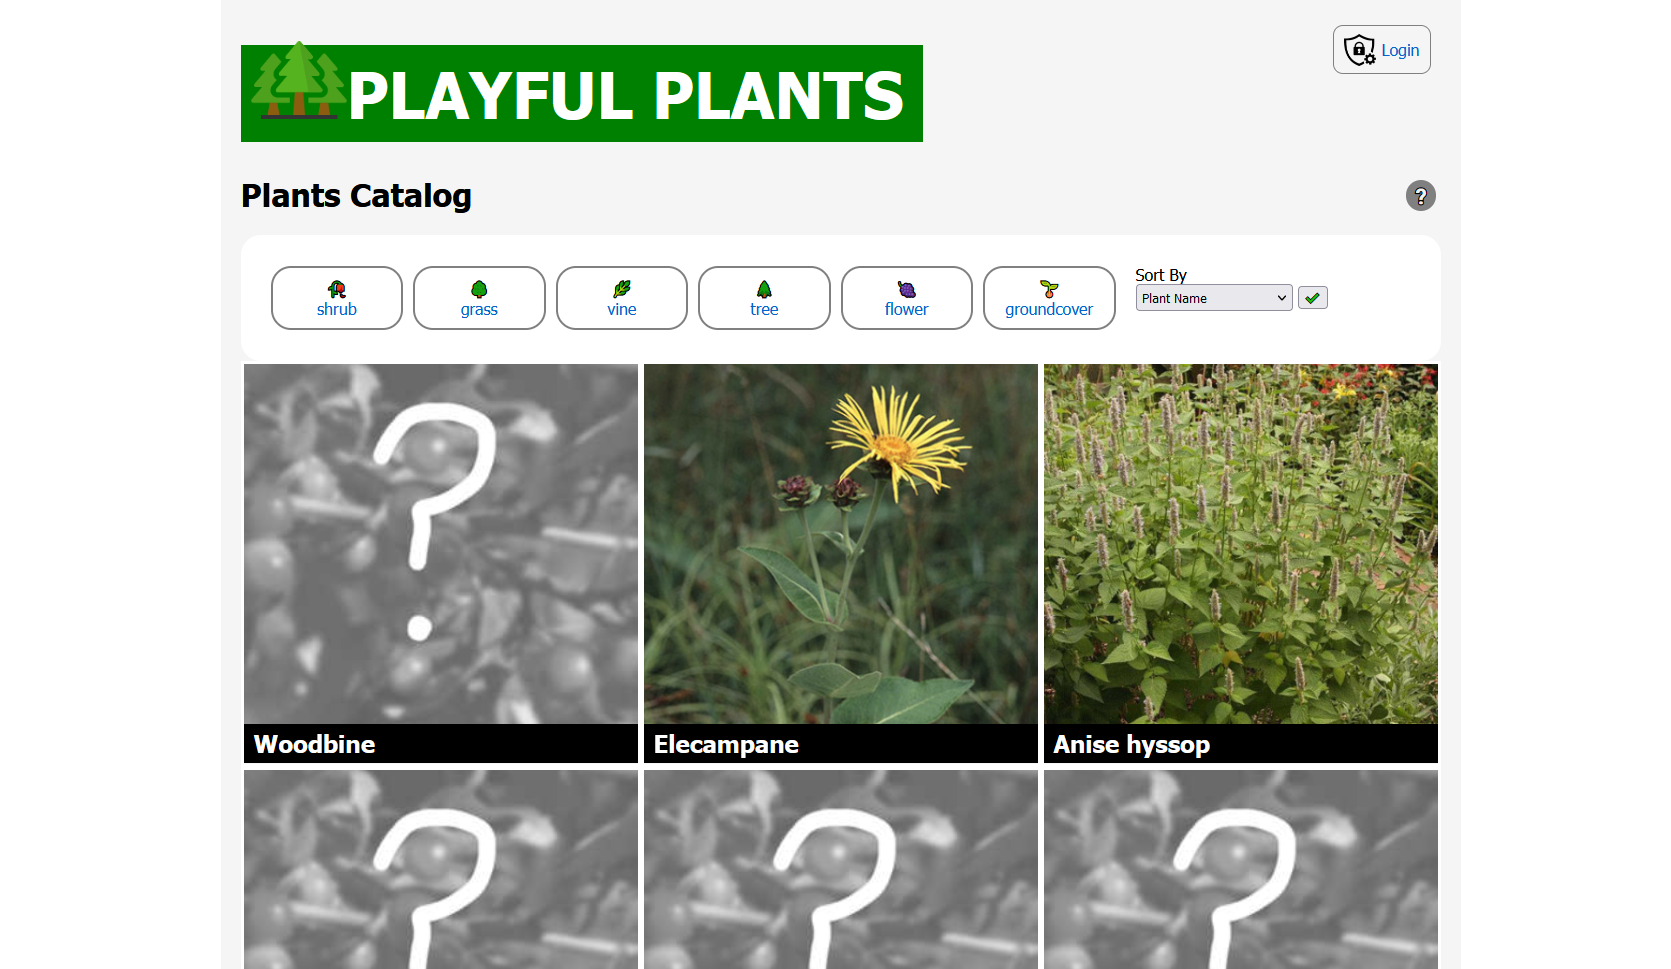
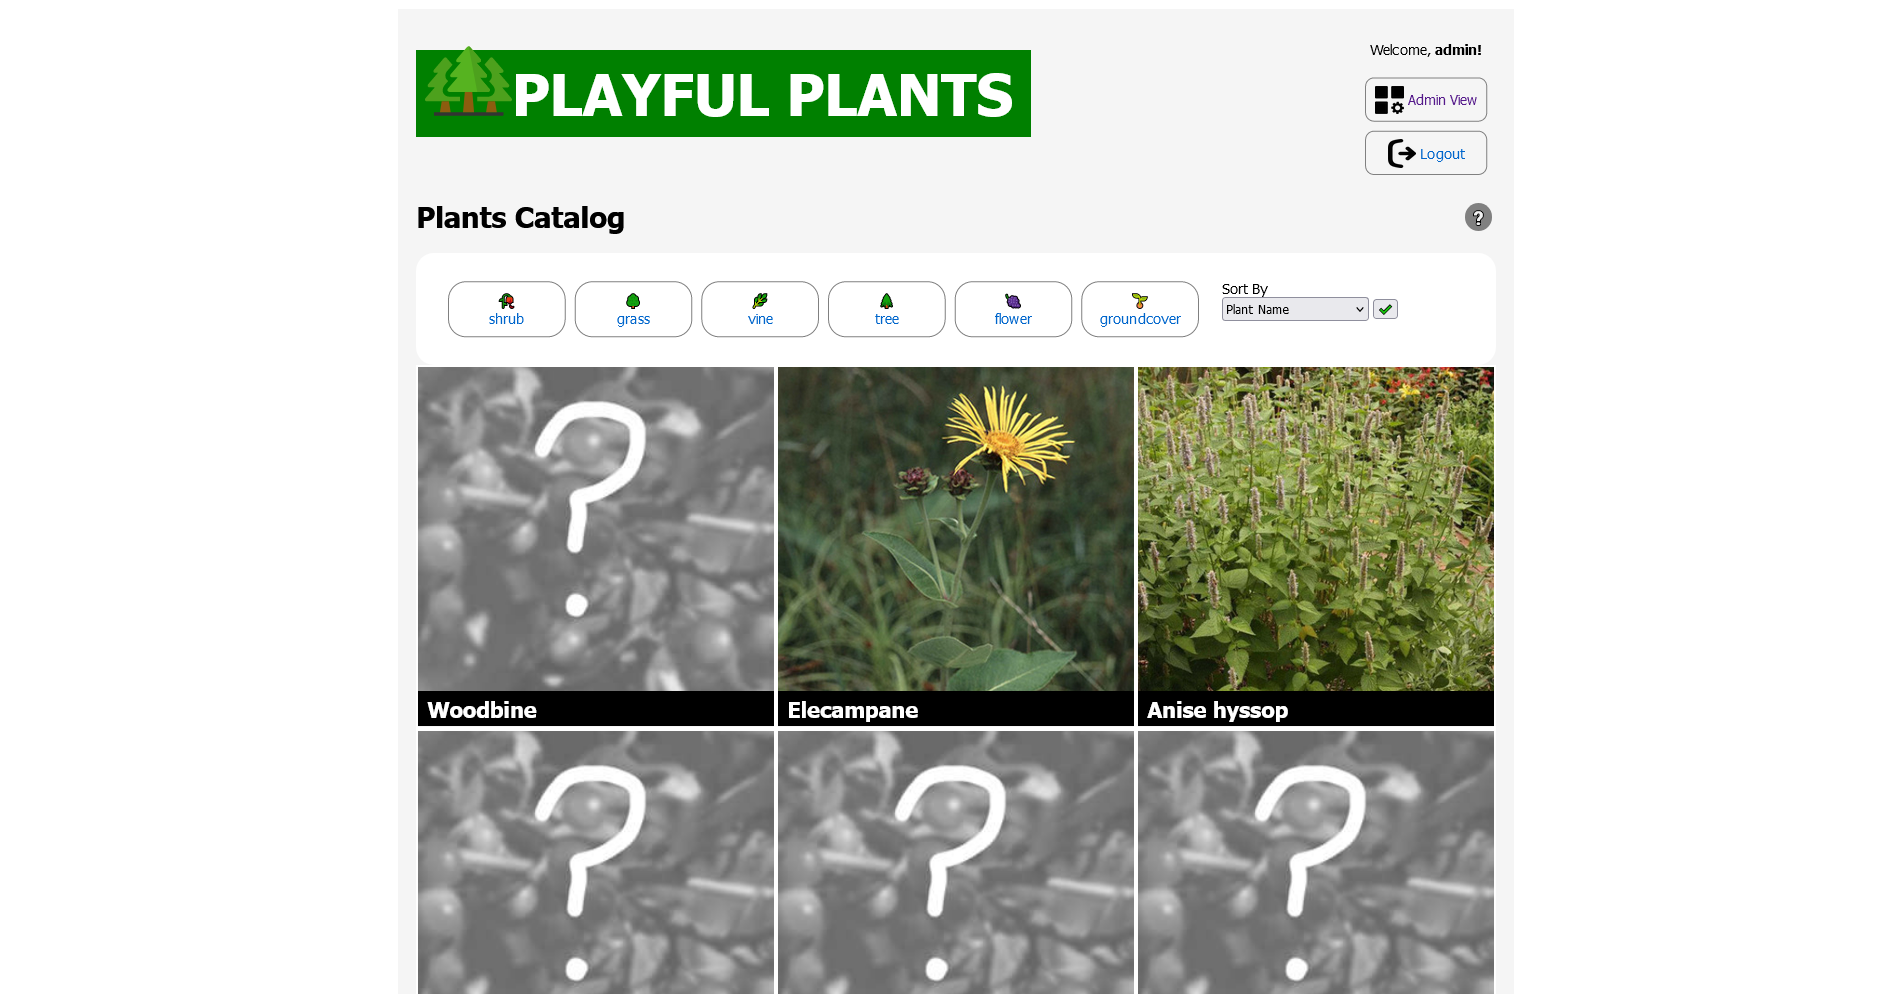
Revised webdev projects page

diff --git a/pages/jb-browser/jb-browser-ver.html b/pages/jb-browser/jb-browser-ver.html
@@ -153,7 +153,7 @@
 			a game developed and tested as a desktop executable.
 		</span> Things are probably
 		broken! Seems to work better
-		on Chrome/Edge over Firefox (which makes me sad). Rest assured that all
+		on Chrome/Edge and not on Firefox (which makes me sad). Rest assured that all
 		features have been rigorously tested by the QA team
 		(my younger brother) in the desktop distribution <a
 			href="https://lucien-eckert.itch.io/juicebox">available here.</a>

diff --git a/public/styles/site.css b/public/styles/site.css
@@ -530,12 +530,12 @@ blockquote {
 }
 
 .catalog .thumbnail img {
-    width: 200%;
+    height: 100%;
     object-fit: cover;
+    transform: translate(-20%, 0%);
 }
 
 .catalog .expanded {
-    width: 1000px;
     height: 500px;
 }
 
@@ -546,7 +546,6 @@ blockquote {
     display: inline-block;
     margin: 0px auto;
     height: 500px;
-    max-width: 650px;
     object-fit: cover;
     border-radius: 10px;
 }

diff --git a/includes/project-writeups/webdev.php b/includes/project-writeups/webdev.php
@@ -15,37 +15,37 @@
     was focused on static sites, accessibility, and user testing, but the latter got me familiar with server-side
     rendering and sites backed with databases. Here are some of the sites I had to design
     and develop for those classes:
-</p>    
-    <div class='catalog' id='first-catalog'>
-        <figure>
-            <img src="public/project-info-res/webdev/p2.png" alt="">
-            <figcaption>Second project for 1300. Site designed as a guide for Ithaca's Apple Harvest Festival.</figcaption>
-        </figure>
-        <figure>
-            <img src="public/project-info-res/webdev/p3-desktop.png" alt="">
-            <figcaption>Third project for 1300. One requirement of the project was client-side interactivity, so I implemented a carousel/slideshow on the homepage.</figcaption>
-        </figure>
-        <figure>
-            <img src="public/project-info-res/webdev/p3-mobile.png" alt="">
-            <figcaption>Third project for 1300. The site was designed to be responsive and support a usable mobile view.</figcaption>
-        </figure>
-        <figure>
-            <img src="public/project-info-res/webdev/2300-p1.png" alt="">
-            <figcaption>First project for 2300. Involved porting the site to PHP, revising the design, and adding new features to meet user needs.</figcaption>
-        </figure>
-        <figure>
-            <img src="public/project-info-res/webdev/2300-p2.png" alt="">
-            <figcaption>Second project for 2300. Used SQLite as a development database for a site cataloging information on plants. Involved form validation, adding, retreiving, and filtering records, etc.</figcaption>
-        </figure>
-        <figure>
-            <img src="public/project-info-res/webdev/2300-p3-0.png" alt="">
-            <figcaption>Third project for 2300. Built on project 2, added a catalog view of the database records, and refined the site's design based on user feedback.</figcaption>
-        </figure>
-        <figure>
-            <img class='large' src="public/project-info-res/webdev/2300-p3-1.png" alt="">
-            <figcaption>Third project for 2300. Built on project 2, added sessions, editing database records, and protection against unauthorized access through SQL injection, accessing pages without permission, etc.</figcaption>
-        </figure>
-    </div>
+</p>
+<div class='catalog' id='first-catalog'>
+    <figure>
+        <img src="public/project-info-res/webdev/p2.png" alt="">
+        <figcaption>Second project for INFO 1300. Site was designed as a guide for Ithaca's Apple Harvest Festival. Based on interviews with the user group of Ithaca residents who had previously attended the festival, a common goal was finding new, unique vendors and experiences efficiently. So, my site's design was centered around making it easy to find new vendors though a new/highlighted vendors slideshow on the homepage, and a large visual gallery with expected wait times (pictured) so users could efficiently plan our their route.</figcaption>
+    </figure>
+    <figure>
+        <img src="public/project-info-res/webdev/p3-desktop.png" alt="">
+        <figcaption>Third project for INFO 1300. The main requirement of the project was implementing an element of client-side interactivity in a previous project, so I wrote a carousel/slideshow on the homepage. I made sure this element aligned as closely as possible with common carousel design elements.</figcaption>
+    </figure>
+    <figure>
+        <img src="public/project-info-res/webdev/p3-mobile.png" alt="">
+        <figcaption>Third project for INFO 1300. Another requirement was ensuring our site supported mobile devices -- especially important here as users are most likely to access this site on their phones. By moving navigation buttons to a fixed position on the bottom of the screen, the site mirrored the navigational layout of many popular mobile apps to provide a usable mobile experience.</figcaption>
+    </figure>
+    <figure>
+        <img src="public/project-info-res/webdev/2300-p1.png" alt="">
+        <figcaption>First project for INFO 2300. Involved porting a site to PHP (here I used the Apple Harvest Festival site again), revising the design, and adding new features to meet user needs. To do so, I revised the color scheme for greater readability (especially outside) and implemented a "visit" page to provide important information on weather and crowd density. This was the first project during which I used personas in the design process to identify some of these needs.</figcaption>
+    </figure>
+    <figure>
+        <img src="public/project-info-res/webdev/2300-p2.png" alt="">
+        <figcaption>Second project for INFO 2300. Used SQLite as a development database for a site cataloging information on plants. Involved form validation, adding, retreiving, and filtering records, etc. supporting a group of users that would maintain this database.</figcaption>
+    </figure>
+    <figure>
+        <img src="public/project-info-res/webdev/2300-p3-0.png" alt="">
+        <figcaption>Third project for INFO 2300. Built on project 2, added a catalog view of the database records for a separate user group, and refined the site's design based on user feedback. This was the first project where we had to design a site that supports two distinct user groups, which was challenging.</figcaption>
+    </figure>
+    <figure>
+        <img class='large' src="public/project-info-res/webdev/2300-p3-1.png" alt="">
+        <figcaption>Final project for INFO 2300. Built on project 3, with a focus on user authentication, security, and maintenance. Implemented sessions, editing/deleting database records, and protection against unauthorized access through SQL injection or accessing pages / "business logic" without permission, etc.</figcaption>
+    </figure>
+</div>
 
 <h2>Many, Many Portfolio Iterations</h2>
 
@@ -56,26 +56,26 @@
 <div class='catalog' id='second-catalog'>
     <figure>
         <img src="public/project-info-res/webdev/port1.png" alt="">
-        <figcaption>It's been a long time since I looked at this. I threw this together quickly freshman year as part of
+        <figcaption>...It's been a long time since I looked at this. I threw this together quickly freshman year as part of
             an application for the intro Game Design course, as a designer, and I'm not quite sure why they let me in.
         </figcaption>
     </figure>
     <figure>
         <img src="public/project-info-res/webdev/port2.png" alt="">
-        <figcaption>Second portfolio iteration, feels more like a legit website with a list of projects. A very verbose list with not a lot of pictures,
-            but certainly an improvement over the previous year's ugly image board.
+        <figcaption>Second portfolio iteration, feels a bit more like a legit website with a list of projects. A very verbose list with not a lot of pictures,
+            granted, but certainly an improvement over the previous year's clumsy image board.
         </figcaption>
     </figure>
     <figure>
         <img src="public/project-info-res/webdev/port3.png" alt="">
         <figcaption>Third portfolio iteration -- with a strictly-enforced dark mode. From here on, I began sketching out designs of pages ahead of time, which
-            really helped me enforce a style. The little icons in the header would wiggle around when you mouse over them. I kinda miss those guys.
+            really helped me enforce a style. The little icons in the header would wiggle around when you mouse over them -- very important feature.
         </figcaption>
     </figure>
     <figure>
         <img src="public/project-info-res/webdev/port4.png" alt="">
         <figcaption>Fourth iteration. Tried to go for a clean feel with card-like background elements, and vibrant
-            colors to make it feel playful. Also, finally moved project info into separate pages. This was about when I realized
+            colors to make it feel visually interesting. Also, finally moved project info into separate pages, which allowed me to describe them in more detail. This was about when I realized
             that a database would be far more approprate to generate these article pages dynamically.
         </figcaption>
     </figure>
@@ -89,7 +89,12 @@
 
 <h2>Other Experience</h2>
 
-<p>Besides the experience mentioned above, I've worked with React on some elements of the AI-Learners website for a prior internship. I'm also building
+<p>As part of the Marketing subteam at <a href="https://combatrobotics.engineering.cornell.edu/">Combat Robotics at Cornell</a>, I'm leading the project of rebuilding the team's site from the ground up.
+    As one of many project teams at Cornell, we're hoping to stand out by using the greater control over functionality and content an in-house website allows us by
+    providing unique features like interactive robot galleries and a small web game featuring all our yearly competition robots.
+</p>
+
+<p>Besides the experience mentioned above, I've worked with React on elements of the AI-Learners website for a prior internship. I'm also building
     a website with Ruby on Rails for a game design group I'm part of with a few friends. For different reasons, those projects are less suited for being
     described here, but I'd be happy to talk about them if needed.
 </p>

diff --git a/pages/index.php b/pages/index.php
@@ -38,7 +38,7 @@
                     <a href="/projects" class='projects-button'>
                         <span>👀 Check out some projects I've worked on</span>
                     </a>
-                    <a href="https://twitter.com/sprodsoft" class='projects-button' target="_blank">
+                    <a href="/jb-browser-ver" class='projects-button' target="_blank">
                         <span>🎮 Play something I made </span>
                     </a>
                     <a href="https://twitter.com/sprodsoft" class='projects-button' target="_blank">
